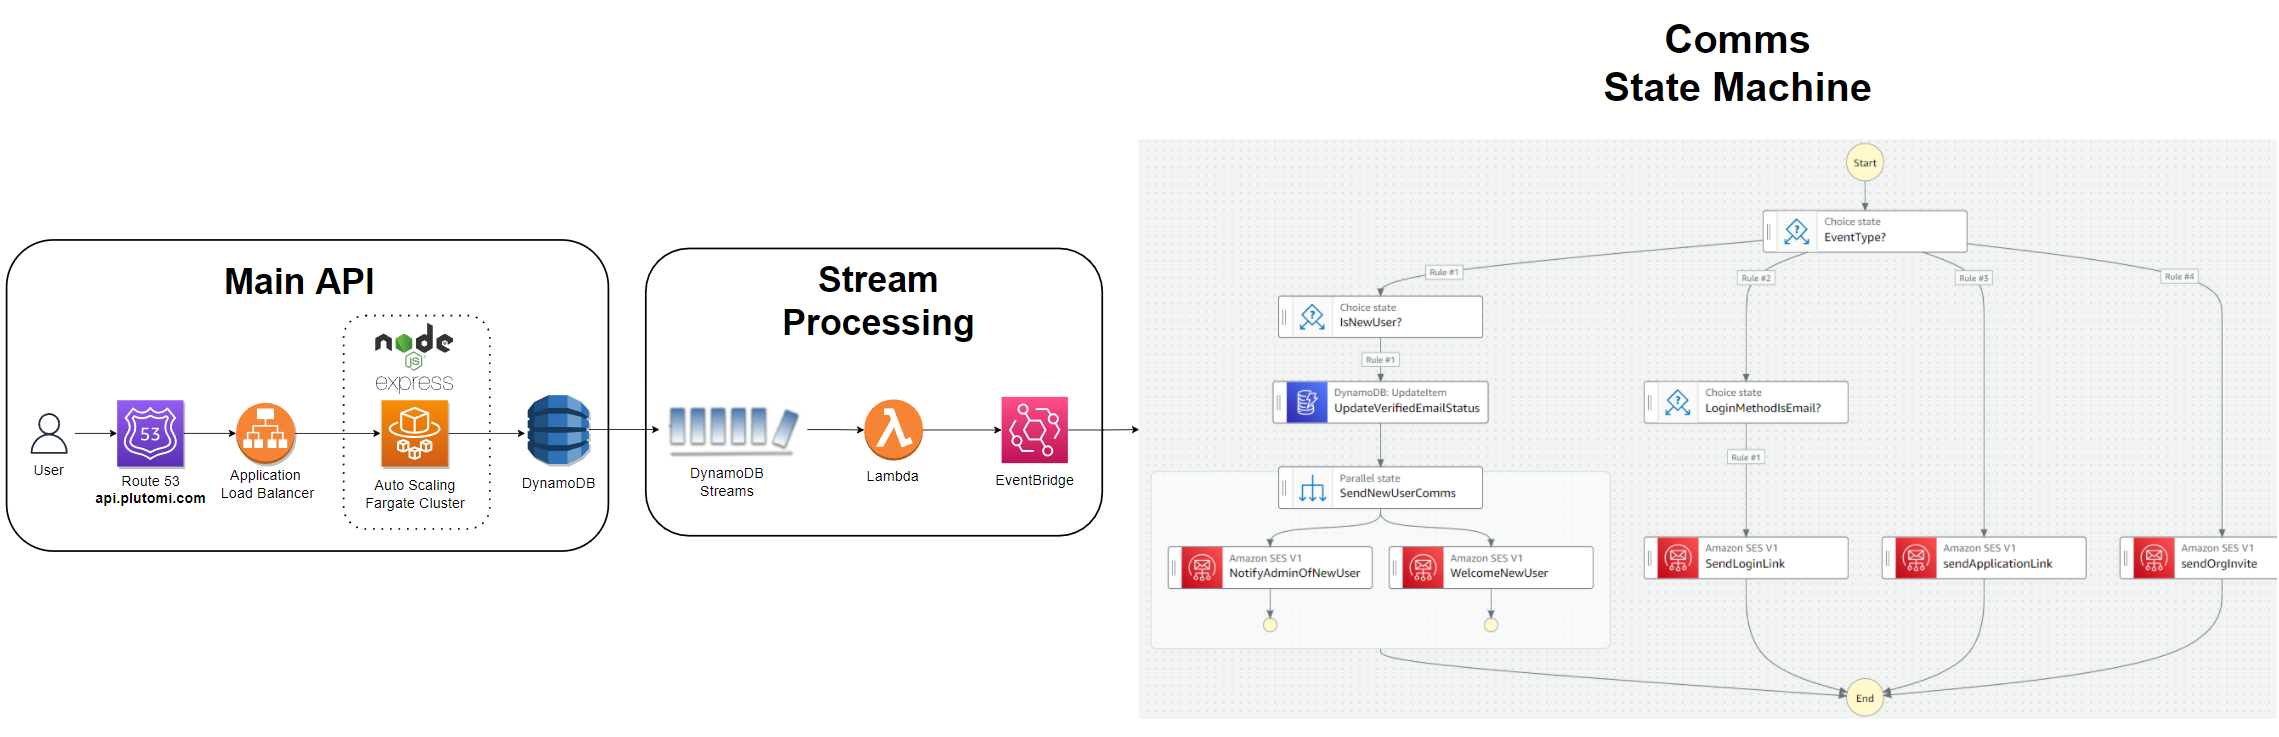
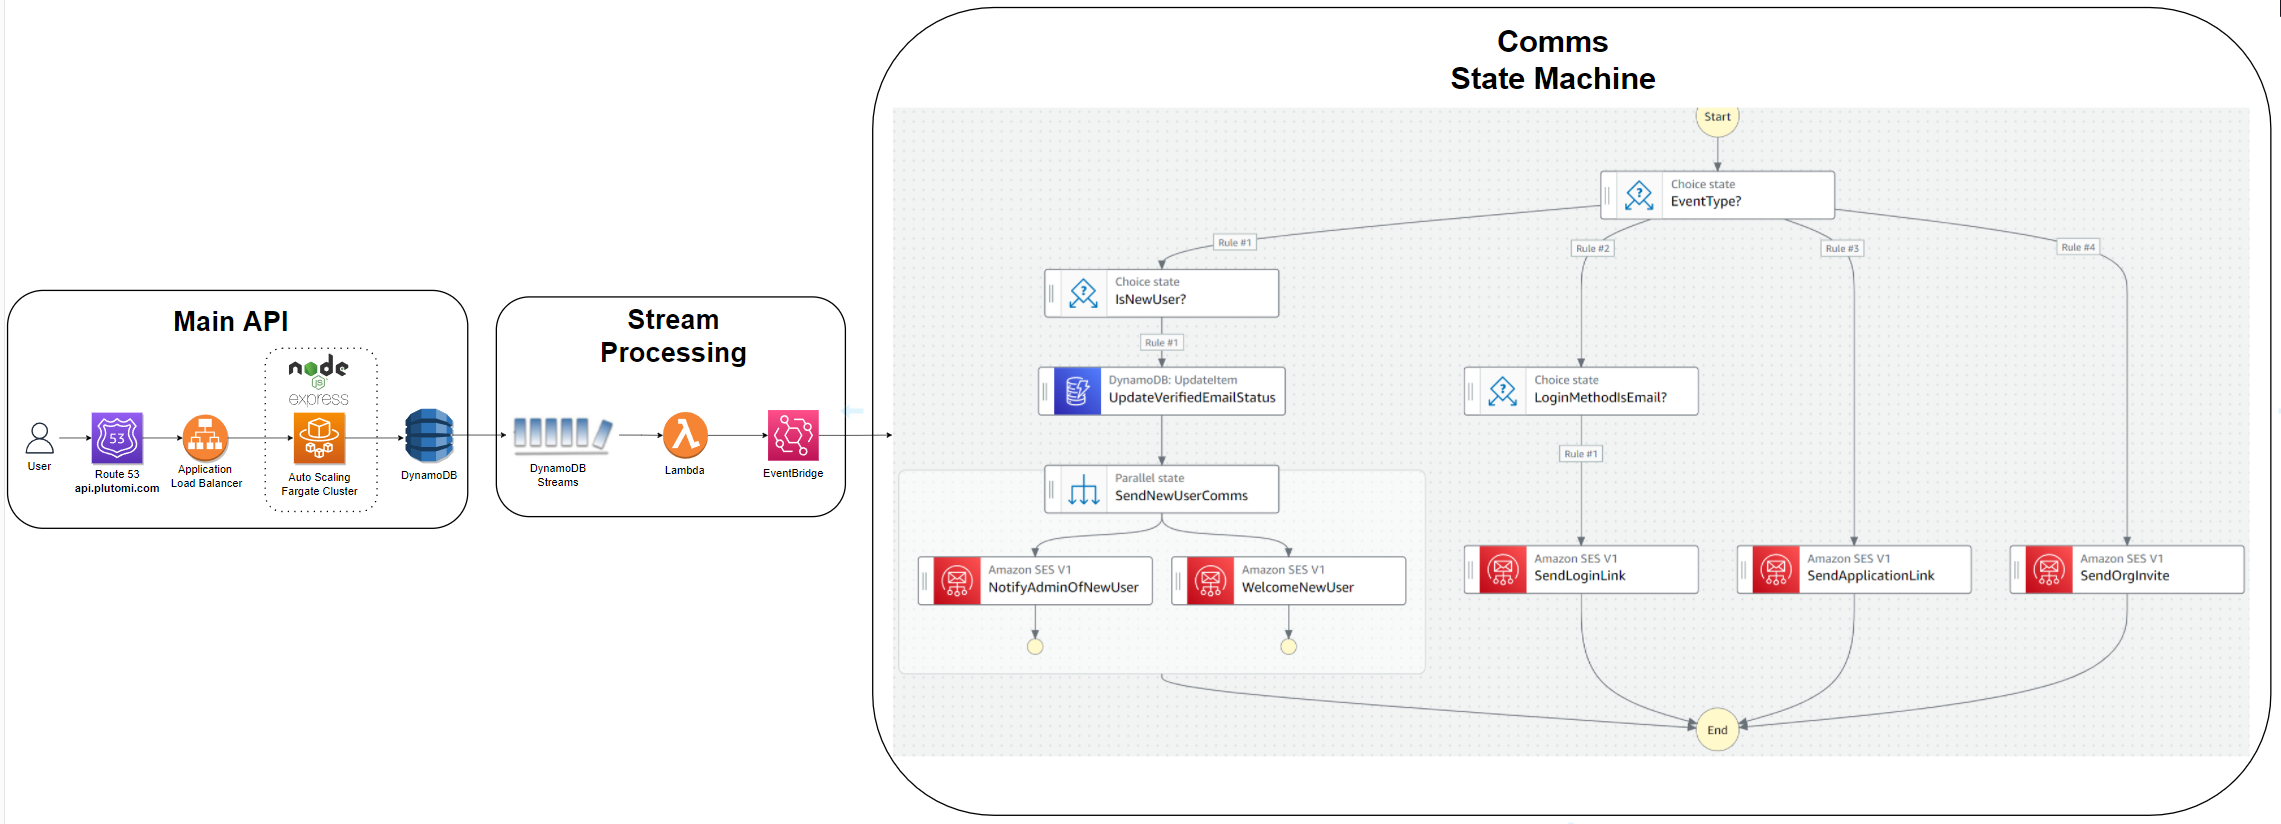
Updated readme with new comms state machine diagram

diff --git a/lib/CommsMachineStack.ts b/lib/CommsMachineStack.ts
@@ -238,6 +238,6 @@ export default class CommsMachineStack extends cdk.Stack {
         level: sfn.LogLevel.ALL,
       },
     });
-    props.table.grantWriteData(this.CommsMachine);
+    props.table.grantWriteData(this.CommsMachine); // TODO this event should just be update. No need for extra permissions
   }
 }

diff --git a/bin/plutomi.ts b/bin/plutomi.ts
@@ -24,7 +24,7 @@ builder
       table,
     });
 
-    const { CommsMachine } = new CommsMachineStack(app, `CommsMachine`, {
+    const { CommsMachine } = new CommsMachineStack(app, `CommsMachineStack`, {
       table,
     });
 
